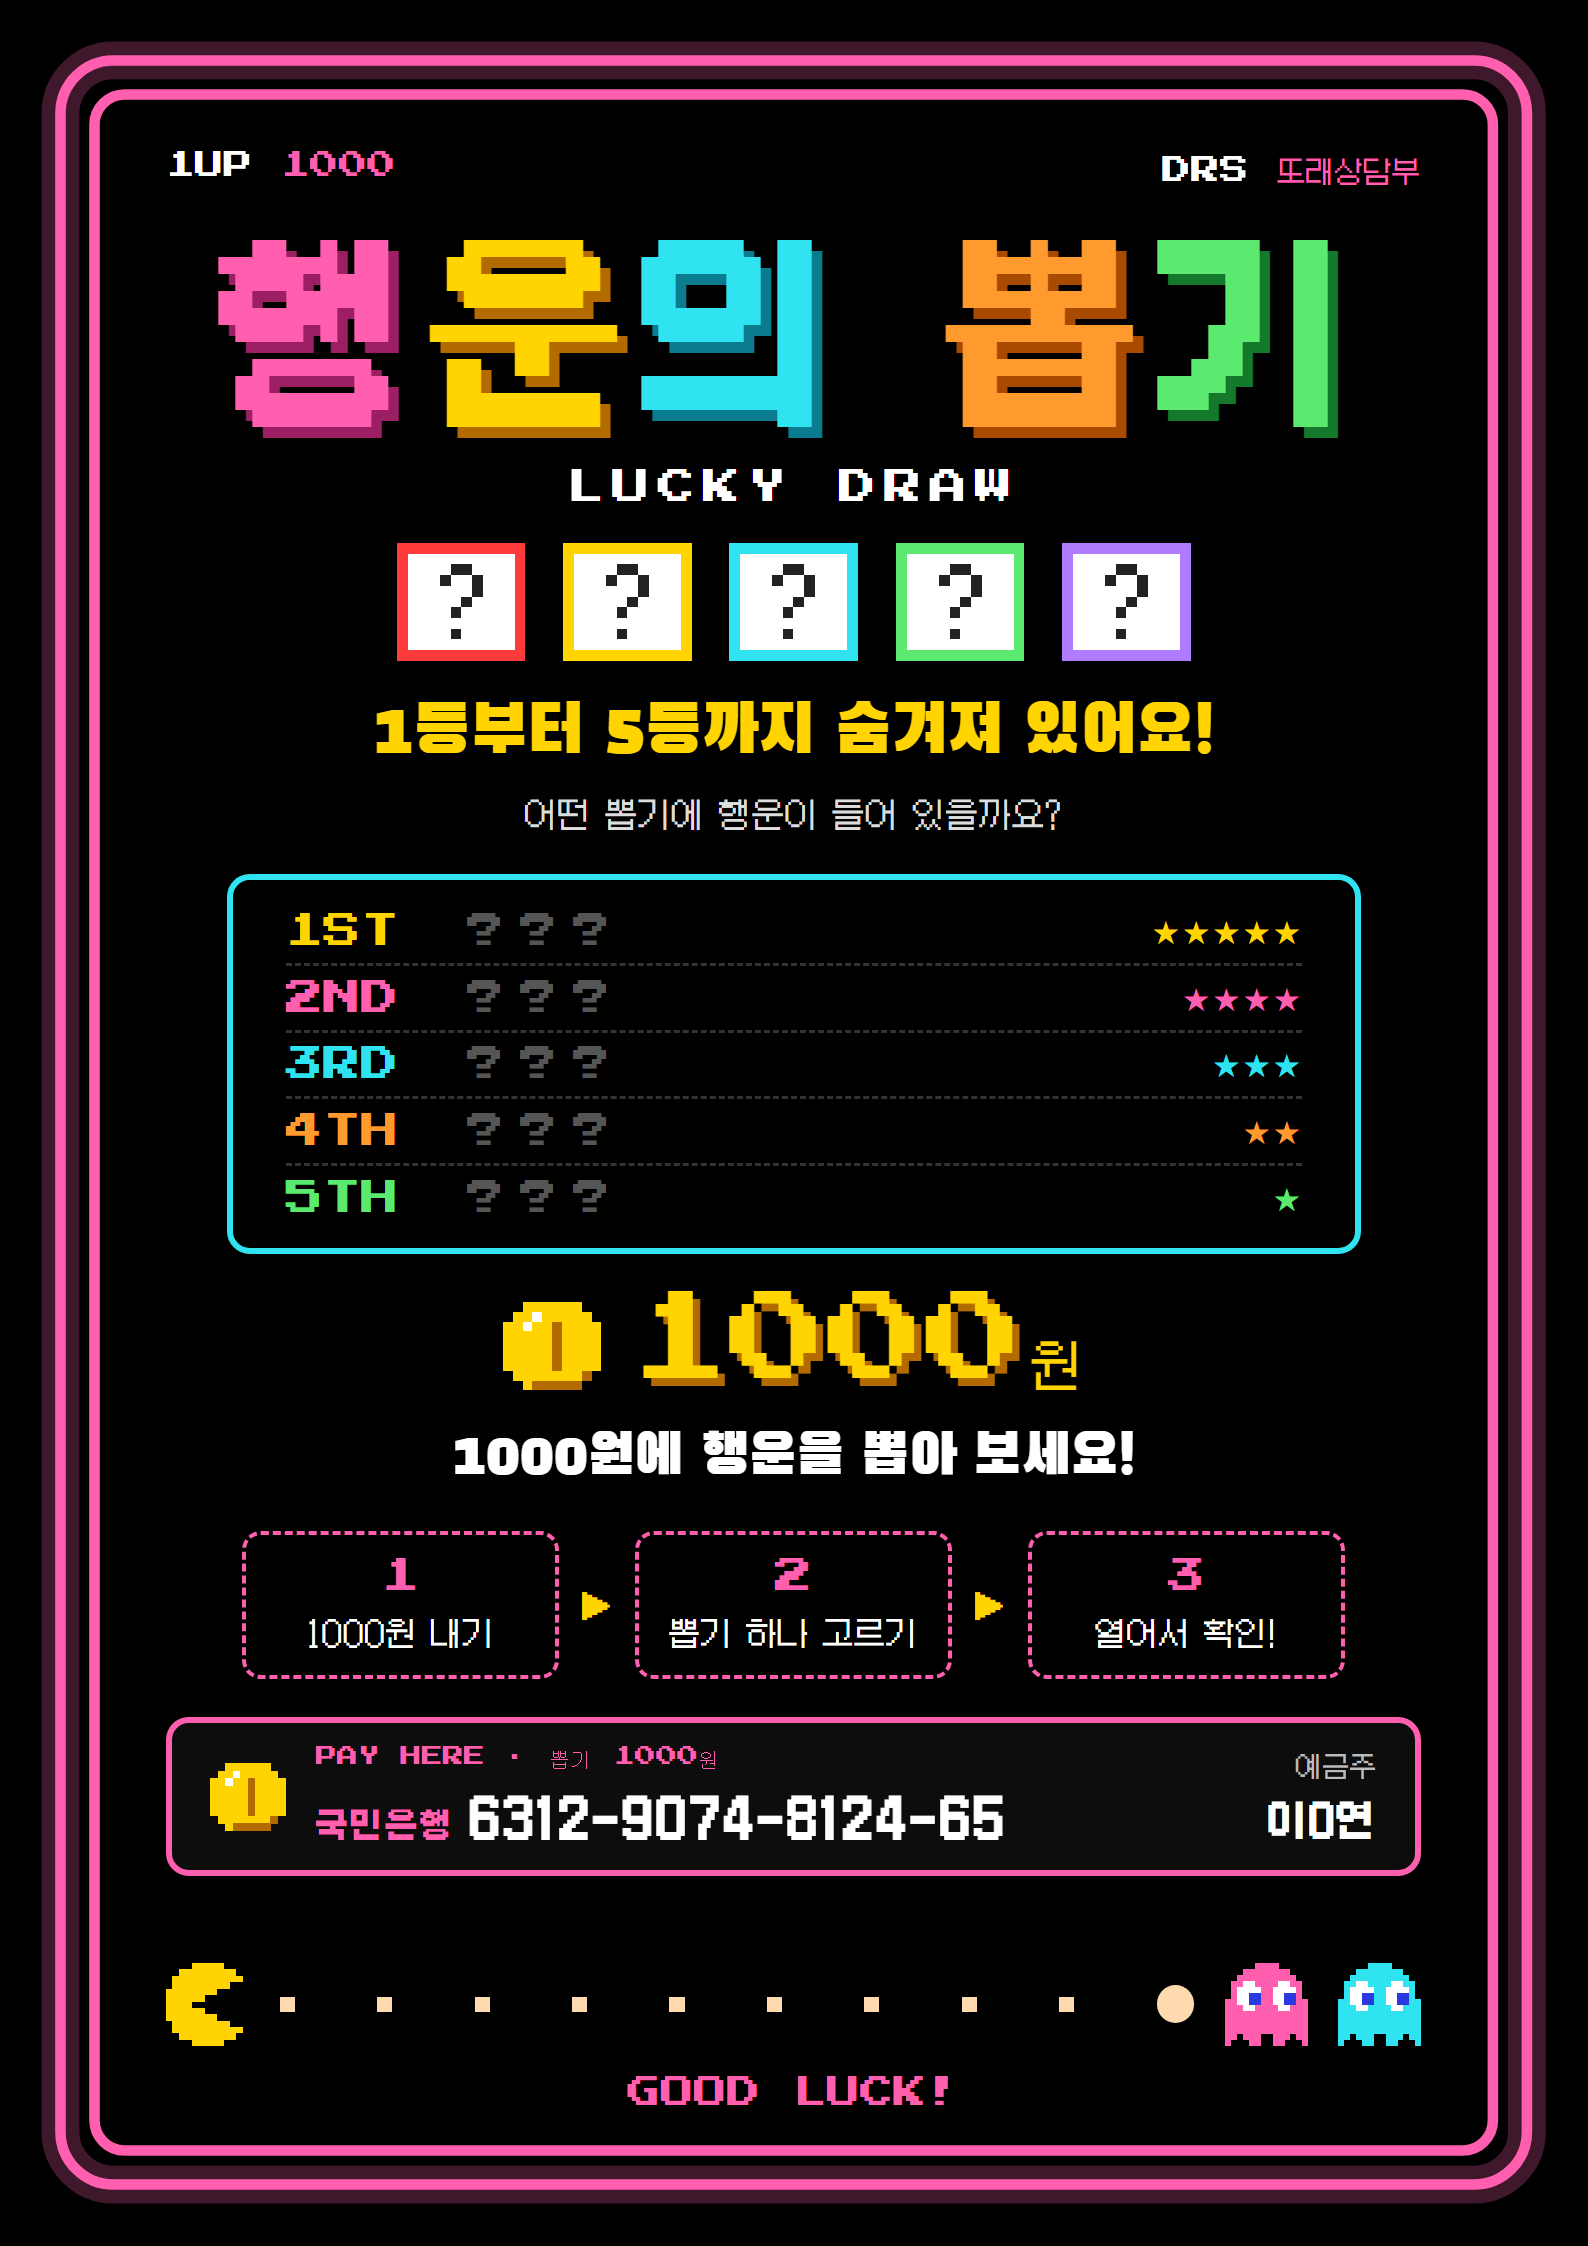
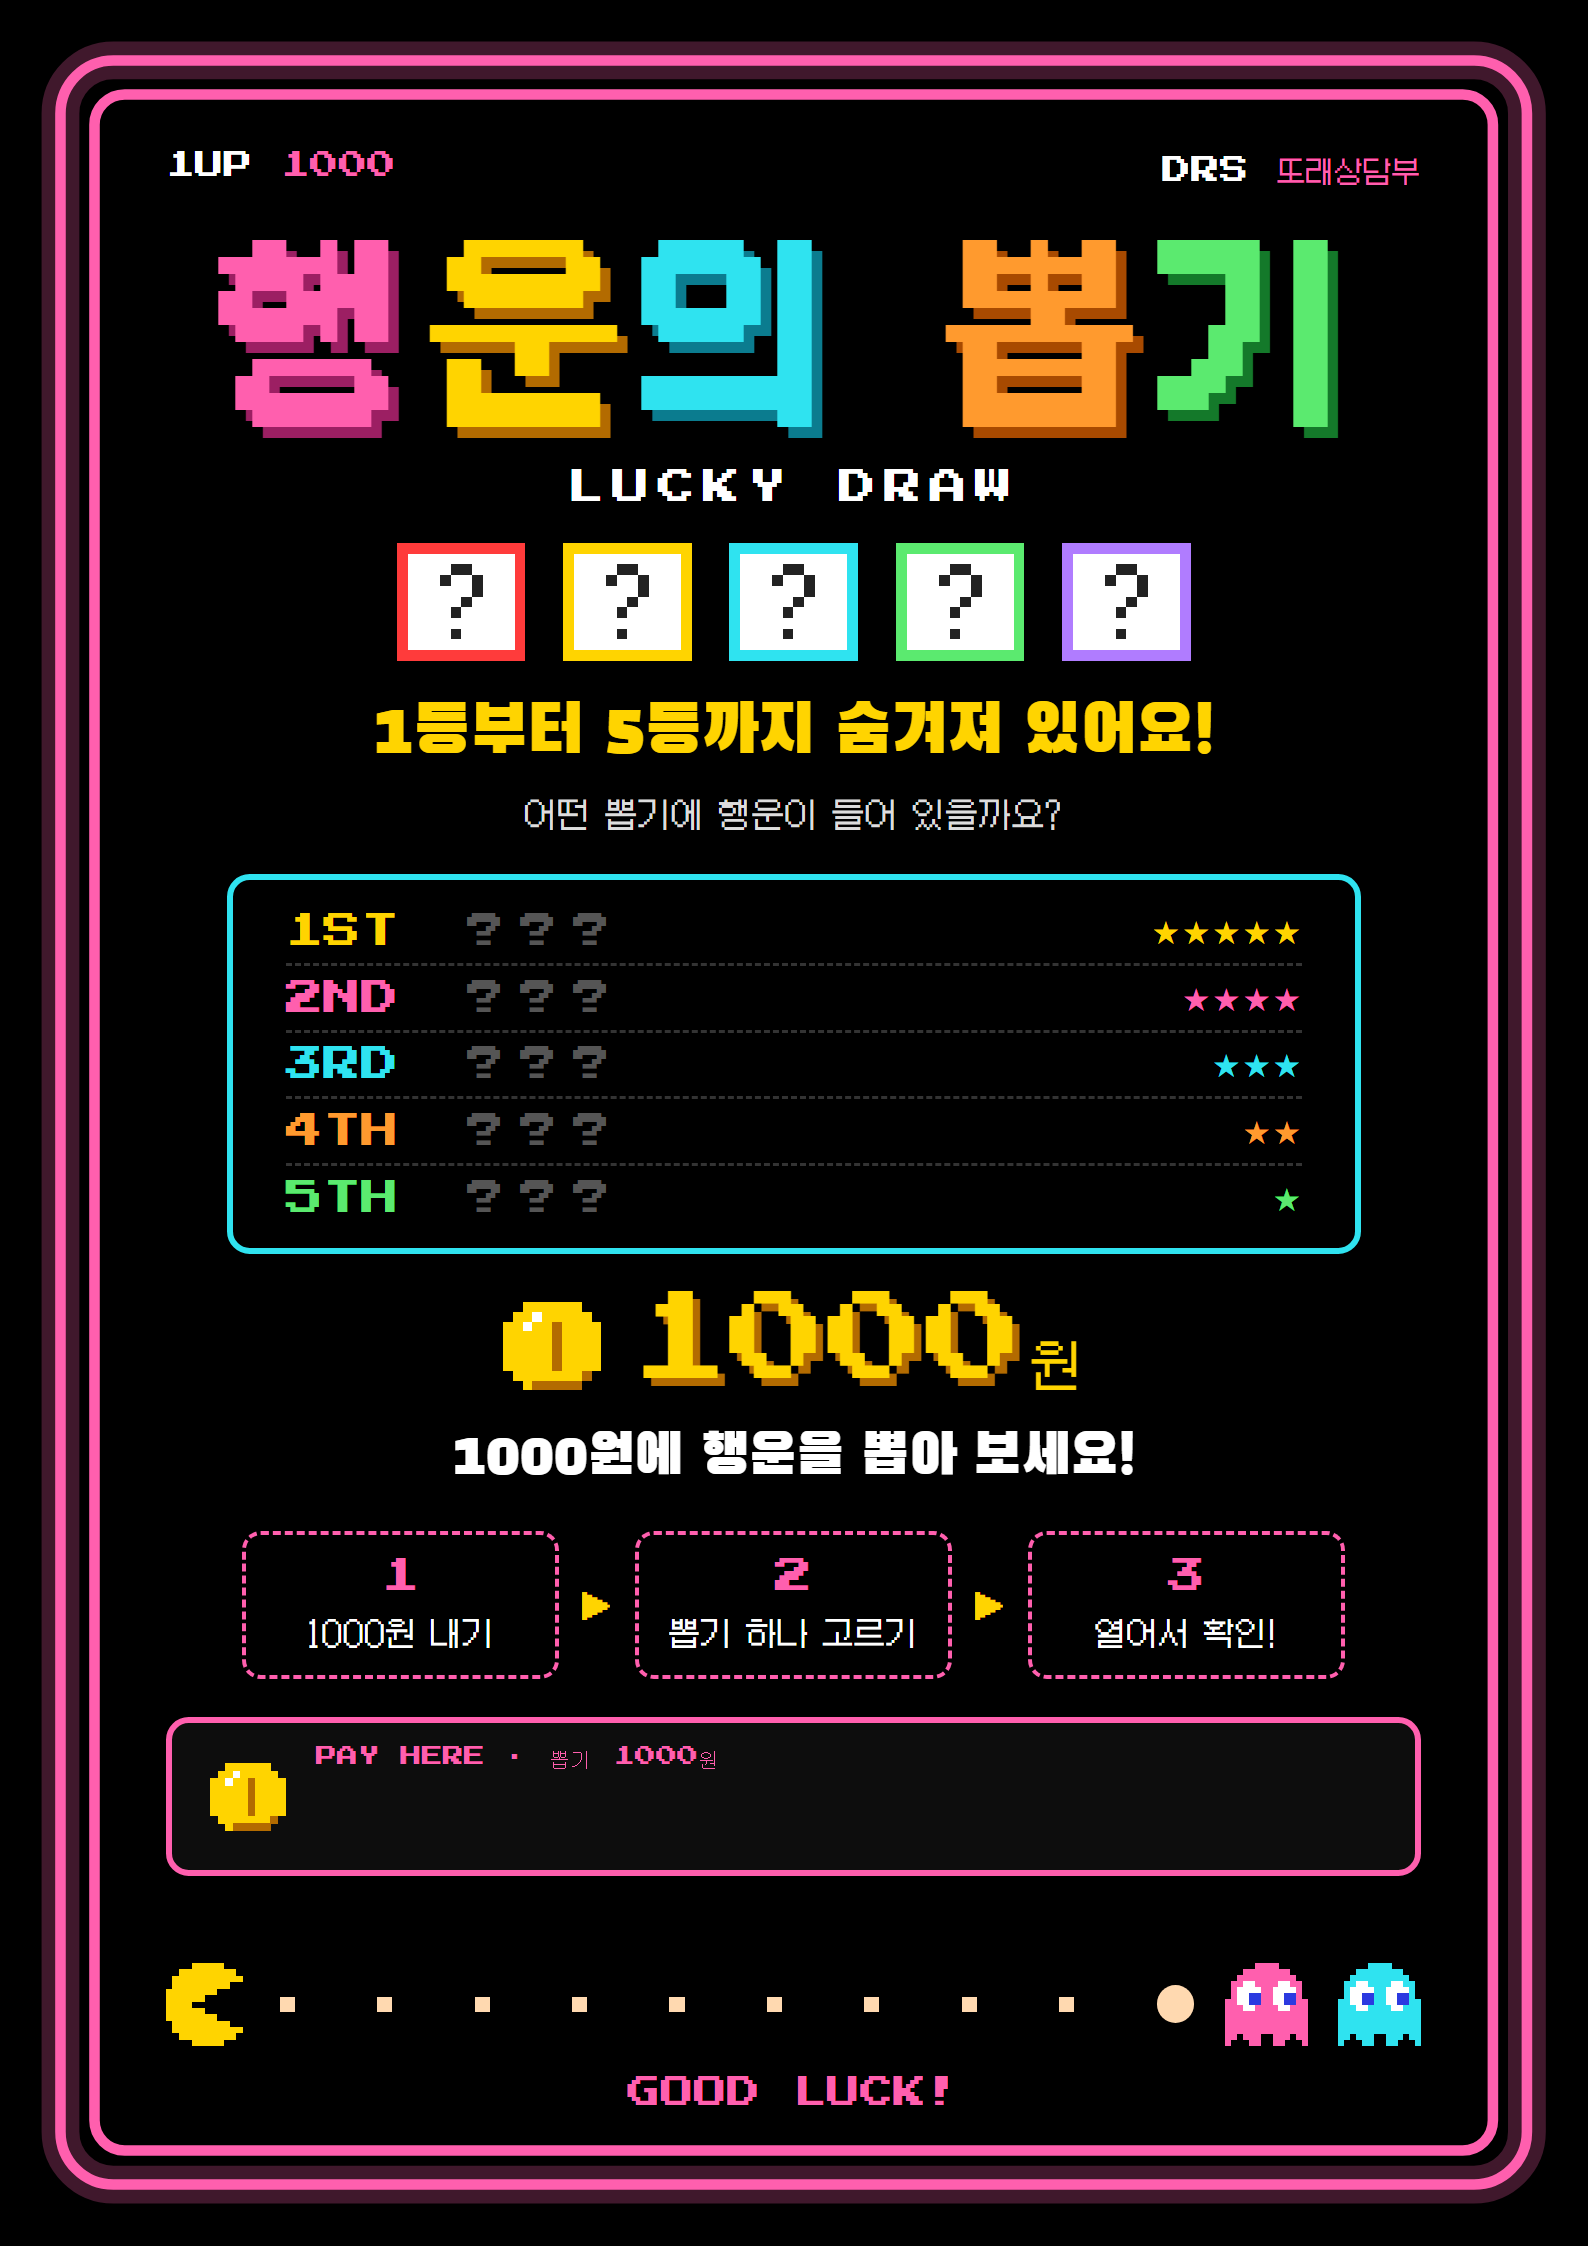
drs/booth: 계좌번호 · 예금주 지우기 (화면 PAY 줄 · 계좌 복사 단추, 뽑기 · 워리스톤 메뉴판 그림)

Changed region(s): [[0.1851, 0.7792, 0.648, 0.8415], [0.8023, 0.7792, 0.864, 0.8415]]

diff --git a/drs/booth/index.html b/drs/booth/index.html
@@ -202,14 +202,10 @@
   .mtabs button[aria-pressed="true"]{ border-color:var(--yellow); color:#000; background:var(--yellow); }
   .menubox img{ display:block; width:100%; height:auto; border:2px solid #333; }
   .mhint{ margin:6px 0 0; text-align:center; font-size:13px; color:var(--muted); }
-  /* 계좌 줄 */
+  /* 값 줄 */
   .paybar{ display:flex; flex-wrap:wrap; align-items:center; gap:6px 18px; padding:9px 16px; border-bottom:3px solid var(--maze); background:#14130A; font-size:17px; }
   .paybar .lab{ font-family:var(--pix); font-size:10px; color:#000; background:var(--yellow); padding:4px 7px; }
   .paybar b{ color:var(--yellow); font-weight:400; }
-  .paybar .acc{ font-size:20px; }
-  .paybar .acc b{ color:#fff; letter-spacing:.5px; }
-  .paybar .acc small{ font-size:14px; color:var(--muted); }
-  .paybar button{ margin-left:auto; background:#000; color:var(--yellow); border:2px solid var(--yellow); padding:4px 12px; font-size:14px; cursor:pointer; }
   .rules h4{ margin:14px 0 6px; font-size:22px; font-weight:400; color:var(--yellow); }
   .rules h4:first-child{ margin-top:0; }
   .rules p{ margin:0 0 8px; font-size:18px; line-height:1.6; }
@@ -306,12 +302,10 @@
     <button class="maptab" id="btnMenu">🍽 메뉴판 3종 세트</button>
     <span class="ctl"><button id="btnReal" aria-pressed="true">실제 시간</button><button id="btnFast" aria-pressed="false">빨리 미리 보기</button><button id="btnPause" aria-pressed="false">멈춤</button></span>
   </div>
-  <!-- 계좌: 늘 잘 보이게 상태 막대 바로 아래 -->
+  <!-- 값: 늘 잘 보이게 상태 막대 바로 아래 -->
   <div class="paybar">
     <span class="lab">PAY</span>
     <span>워리스톤 체험 <b>2,000원</b> · 행운의 뽑기 <b>1,000원</b></span>
-    <span class="acc"><small>국민은행</small> <b id="accNo">6312-9074-8124-65</b> <small>예금주</small> <b>이O연</b></span>
-    <button id="btnCopyAcc">계좌 복사</button>
   </div>
   <div class="wrap">
     <div class="left">
@@ -1163,13 +1157,6 @@ $('btnMenu').addEventListener('click', ()=>{ if(!$('menuImg').getAttribute('src'
 document.querySelectorAll('.mtabs button').forEach(b=> b.addEventListener('click', ()=> showMenu(b.dataset.m)));
 $('menuClose').addEventListener('click', ()=> $('menuModal').hidden = true);
 $('menuModal').addEventListener('click', e=>{ if(e.target === $('menuModal')) $('menuModal').hidden = true; });
-// 계좌 복사
-$('btnCopyAcc').addEventListener('click', async e=>{
-  const b = e.currentTarget, num = $('accNo').textContent;
-  try{ await navigator.clipboard.writeText('국민은행 ' + num); b.textContent = '복사했어요!'; }
-  catch(err){ const r = document.createRange(); r.selectNodeContents($('accNo')); getSelection().removeAllRanges(); getSelection().addRange(r); b.textContent = '번호를 길게 눌러 복사'; }
-  setTimeout(()=> b.textContent = '계좌 복사', 2000);
-});
 // 부스 운영 룰: 배치도처럼 팝업
 $('btnRules').addEventListener('click', ()=>{ $('rulesModal').hidden = false; $('rulesClose').focus(); });
 $('rulesClose').addEventListener('click', ()=> $('rulesModal').hidden = true);
